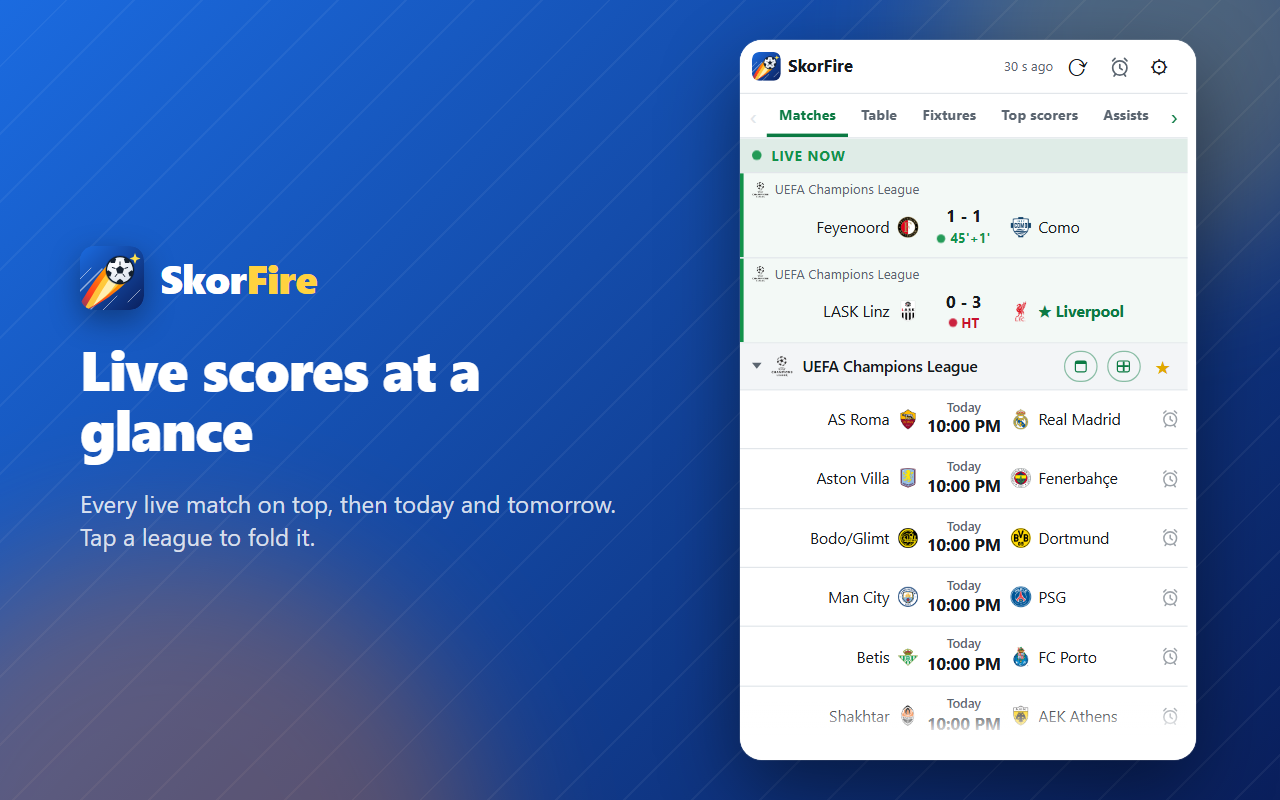
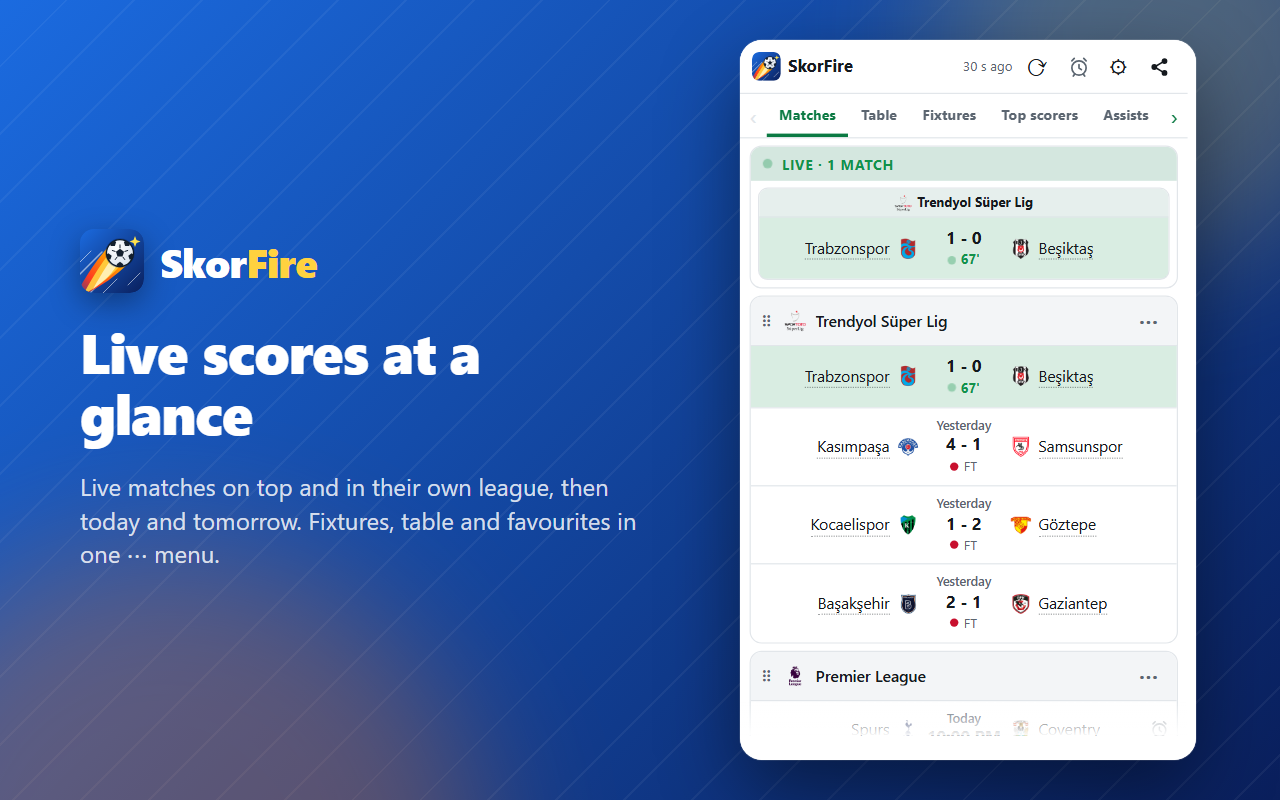
SkorFire 2.8.1: team card, share menu, Firefox for Android, new screenshots

diff --git a/README.md b/README.md
@@ -2,26 +2,28 @@
 
 ![SkorFire](images/promo-marquee-1400x560.png)
 
-Live scores, today's fixtures, league tables and goal notifications from the browser toolbar. Free, no account, no ads, no tracking. Chrome, Edge and Firefox; 19 languages.
+Live scores, today's fixtures, league tables and goal notifications from the browser toolbar. Free, no account, no ads, no tracking. Chrome, Edge and Firefox (desktop and Android); 19 languages.
 
-**Install:** [Chrome Web Store](https://chromewebstore.google.com/detail/apallmfeiokillgdbpedodafkgampneh) · [Microsoft Edge](https://microsoftedge.microsoft.com/addons/detail/neljlflmnlamhdkdgdpokgiaieplmmia) · [Website](https://skynonlabs.com/browser-extensions/skorfire/) · [Privacy](https://skynonlabs.com/browser-extensions/skorfire/privacy/) · [Türkçe](README.tr.md)
+**Install:** [Chrome Web Store](https://chromewebstore.google.com/detail/apallmfeiokillgdbpedodafkgampneh) · [Microsoft Edge](https://microsoftedge.microsoft.com/addons/detail/neljlflmnlamhdkdgdpokgiaieplmmia) · [Firefox](https://addons.mozilla.org/firefox/addon/skorfire-live-football/) · [Website](https://skynonlabs.com/browser-extensions/skorfire/) · [Privacy](https://skynonlabs.com/browser-extensions/skorfire/privacy/) · [Türkçe](README.tr.md)
 
 > This repository is a showcase. The source code is private. Not affiliated with ESPN.
 
 | | |
 |---|---|
-| ![Match list](images/screenshot-1-en.png) | ![Table](images/screenshot-3-en.png) |
-| ![Notifications](images/screenshot-5-en.png) | ![Live stats](images/screenshot-6-en.png) |
+| ![Match list](images/screenshot-1-en.png) | ![Team card](images/screenshot-7-en.png) |
+| ![Live stats](images/screenshot-6-en.png) | ![Pre-match](images/screenshot-2-en.png) |
+| ![Table](images/screenshot-3-en.png) | ![Notifications](images/screenshot-5-en.png) |
 
-## What's new
+## New in 2.8.1
 
-Current version: **2.6.0**
+Rolling out through store review (October 2026).
 
-- **2.6 — Loading screen everywhere:** standings, top scorers, fixtures, match and team views show the animated logo loader; a "⟳ Refresh" button appears under it after a few seconds to reload by hand.
-- **2.5 — Test notification:** a "📣 Test notification" link under each notification switch in Settings sends a sample goal, match-started or reminder notification, so you can check your system settings before a real match.
-- **Clickable team names:** a faint dotted underline (solid green on hover) shows that a team name opens the team page.
-- **Followed teams** stand out in matte gold, with the star on the outer side of the team.
-- **Cleaner notifications:** the image "match started" notification now shows just the match name.
+- **Team card:** league and table line (P W D L GD Pts), the team's top scorer and assister, last 5 results with opponent logos.
+- **Share menu:** WhatsApp, X, Facebook, Telegram, Reddit, LinkedIn, email or copy link.
+- **Live block:** "Live · N matches" header and a clearer green; live matches also stay in their own league card.
+- **League header ⋯ menu:** fixtures, table, favourite and remove from list in one place.
+- **Last 5 boxes open that match;** hovering shows the date.
+- **Firefox for Android** (Firefox 142 or later).
 
 ## Architecture
 

diff --git a/README.tr.md b/README.tr.md
@@ -1,19 +1,26 @@
 # SkorFire Live Football — vitrin
 
-Canlı skor, günün maçları, puan durumu ve gol bildirimi; tarayıcı araç çubuğunda. Ücretsiz, hesapsız, reklamsız, izleyicisiz. Chrome, Edge, Firefox; 19 dil.
+![SkorFire](images/promo-marquee-1400x560-tr.png)
+
+Canlı skor, günün maçları, puan durumu ve gol bildirimi; tarayıcı araç çubuğunda. Ücretsiz, hesapsız, reklamsız, izleyicisiz. Chrome, Edge, Firefox (masaüstü ve Android); 19 dil.
+
+**Kur:** [Chrome Web Mağazası](https://chromewebstore.google.com/detail/apallmfeiokillgdbpedodafkgampneh) · [Microsoft Edge](https://microsoftedge.microsoft.com/addons/detail/neljlflmnlamhdkdgdpokgiaieplmmia) · [Firefox](https://addons.mozilla.org/firefox/addon/skorfire-live-football/) · [Site](https://skynonlabs.com/browser-extensions/skorfire/)
 
 > Bu repo bir vitrindir; kaynak kod özeldir. ESPN ile bağlantılı değildir.
 
-**Kurulum:** [Chrome Web Store](https://chromewebstore.google.com/detail/apallmfeiokillgdbpedodafkgampneh) · [Microsoft Edge](https://microsoftedge.microsoft.com/addons/detail/neljlflmnlamhdkdgdpokgiaieplmmia) · [Web sitesi](https://skynonlabs.com/browser-extensions/skorfire/)
+## 2.8.1'de yeni
+
+Mağaza incelemesinden geçerek yayılıyor (Ekim 2026).
+
+![Takım kartı](images/screenshot-7-tr.png)
+
+- **Takım kartı:** lig ve puan tablosu satırı (O G B M AV P), takımın golcüsü ve asistçisi, rakip logolu son 5 maç.
+- **Paylaş menüsü:** WhatsApp, X, Facebook, Telegram, Reddit, LinkedIn, e-posta veya bağlantıyı kopyala.
+- **Canlı bölüm:** "Canlı · N maç" başlığı ve daha belirgin yeşil; canlı maçlar kendi lig kartında da görünür.
+- **Lig başlığında ⋯ menüsü:** fikstür, puan durumu, favori ve listeden kaldır tek yerde.
+- **Son 5 kutuları o maçı açar;** üzerine gelince tarih görünür.
+- **Android için Firefox** (Firefox 142 ve üstü).
 
 **Öne çıkan çözümler:** sunucusuz ve bağımlılıksız Manifest V3 · tüm veri tek modülden geçer · durumu belirsiz maç asla "bitti" gösterilmez · lig kimlikleri canlı API'ye karşı doğrulanır · gece yarısı kaybolan maç yok (dün/bugün/yarın ayrı istek) · çevrimdışı testler.
-
-**Yenilikler (güncel sürüm 2.6.0):**
-
-- **2.6 — Her yerde yükleme ekranı:** puan durumu, gol krallığı, fikstür, maç ve takım sayfaları logolu yükleme ekranını gösterir; birkaç saniye sonra altında beliren "⟳ Yenile" düğmesiyle elle yeniden yüklenir.
-- **2.5 — Test bildirimi:** Ayarlar'da her bildirim anahtarının altındaki "📣 Test bildirimi" bağlantısı örnek bir gol, maç başladı veya hatırlatma bildirimi gönderir; gerçek maçtan önce sistem ayarlarınızı kontrol edebilirsiniz.
-- **Tıklanabilir takım adları:** silik noktalı alt çizgi (üzerine gelince düz yeşil) takım adının takım sayfasını açtığını gösterir.
-- **Takip edilen takımlar** mat altın renkle öne çıkar; yıldız takımın dış tarafındadır.
-- **Sade bildirimler:** görselli "maç başladı" bildirimi artık yalnızca maç adını gösterir.
 
 Mimari ve ekran görüntüleri: [README.md](README.md) · © 2026 Skynon Labs Ltd. Tüm hakları saklıdır.
